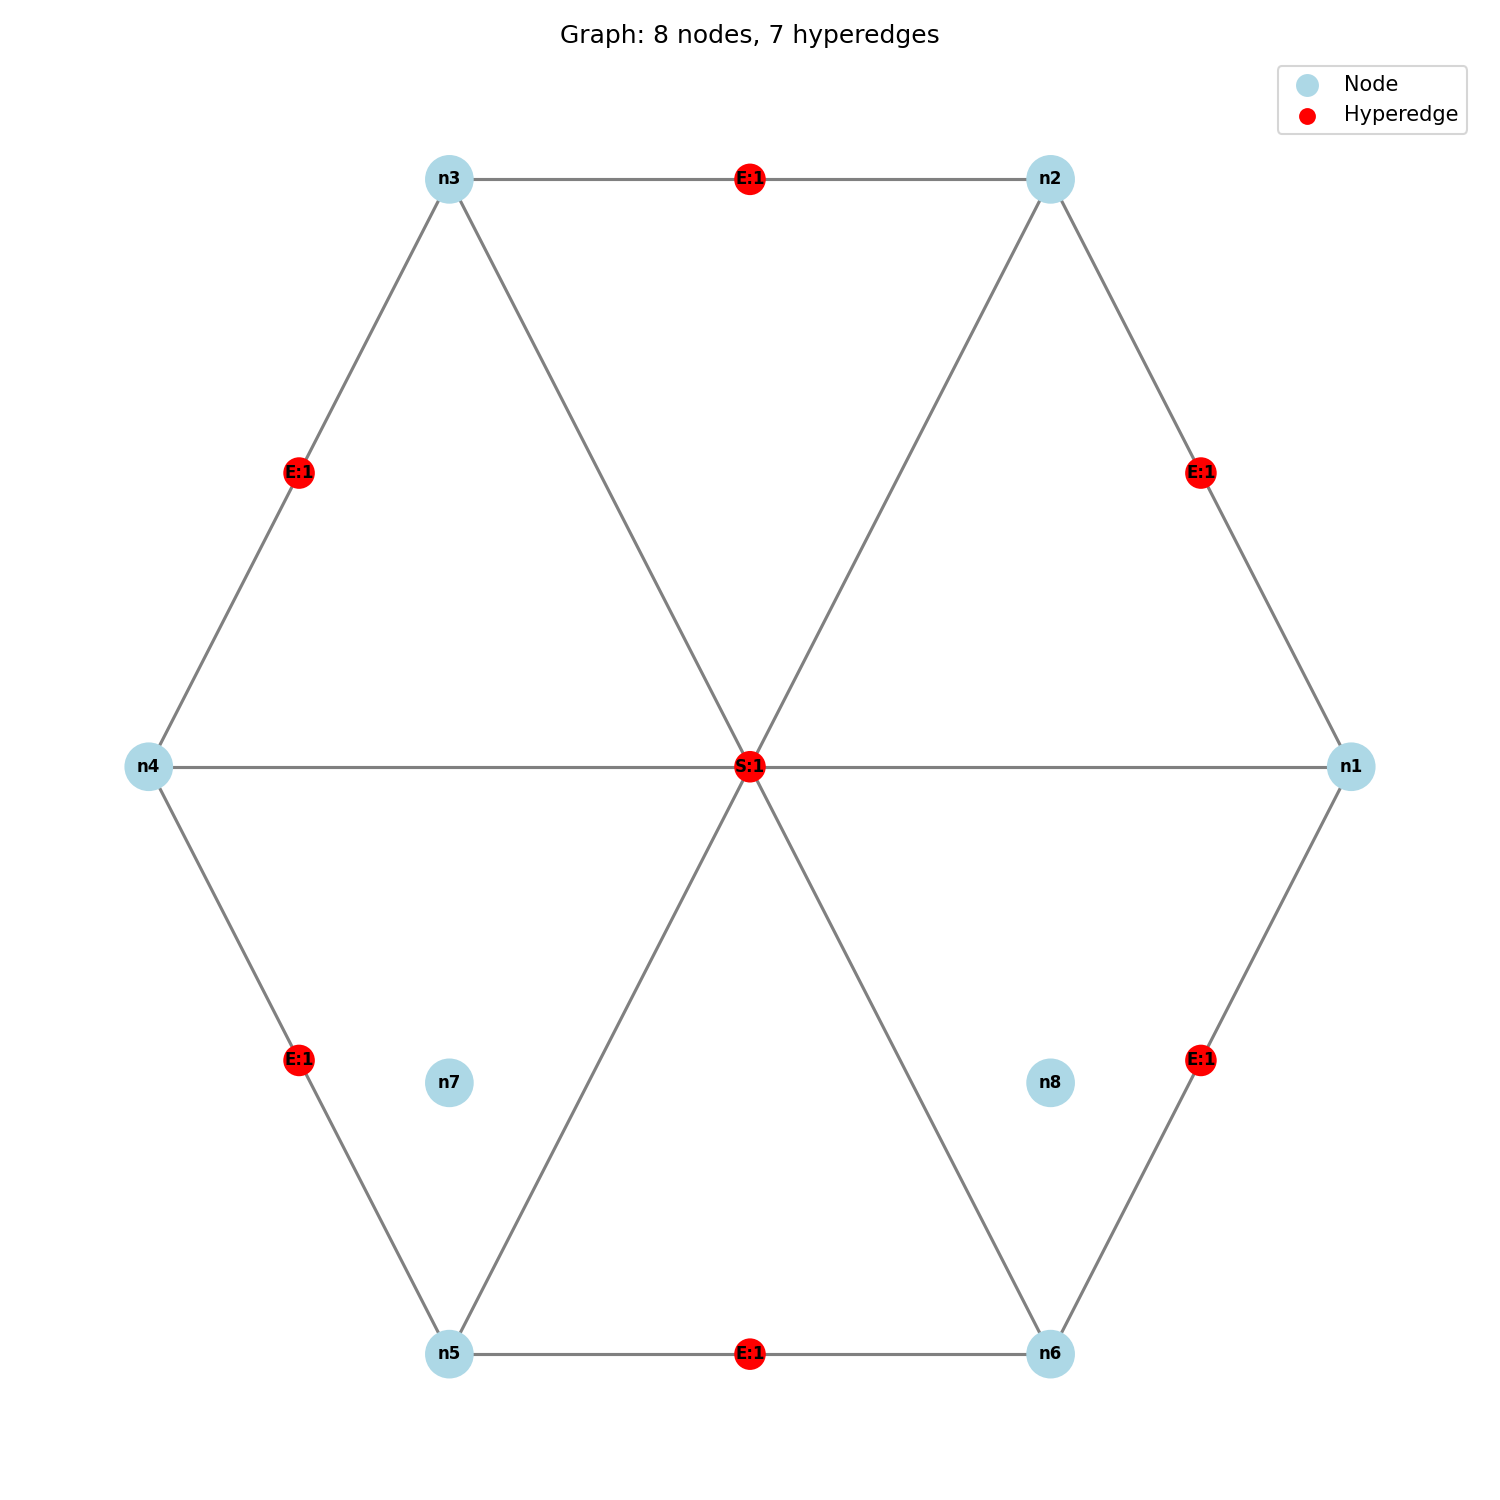
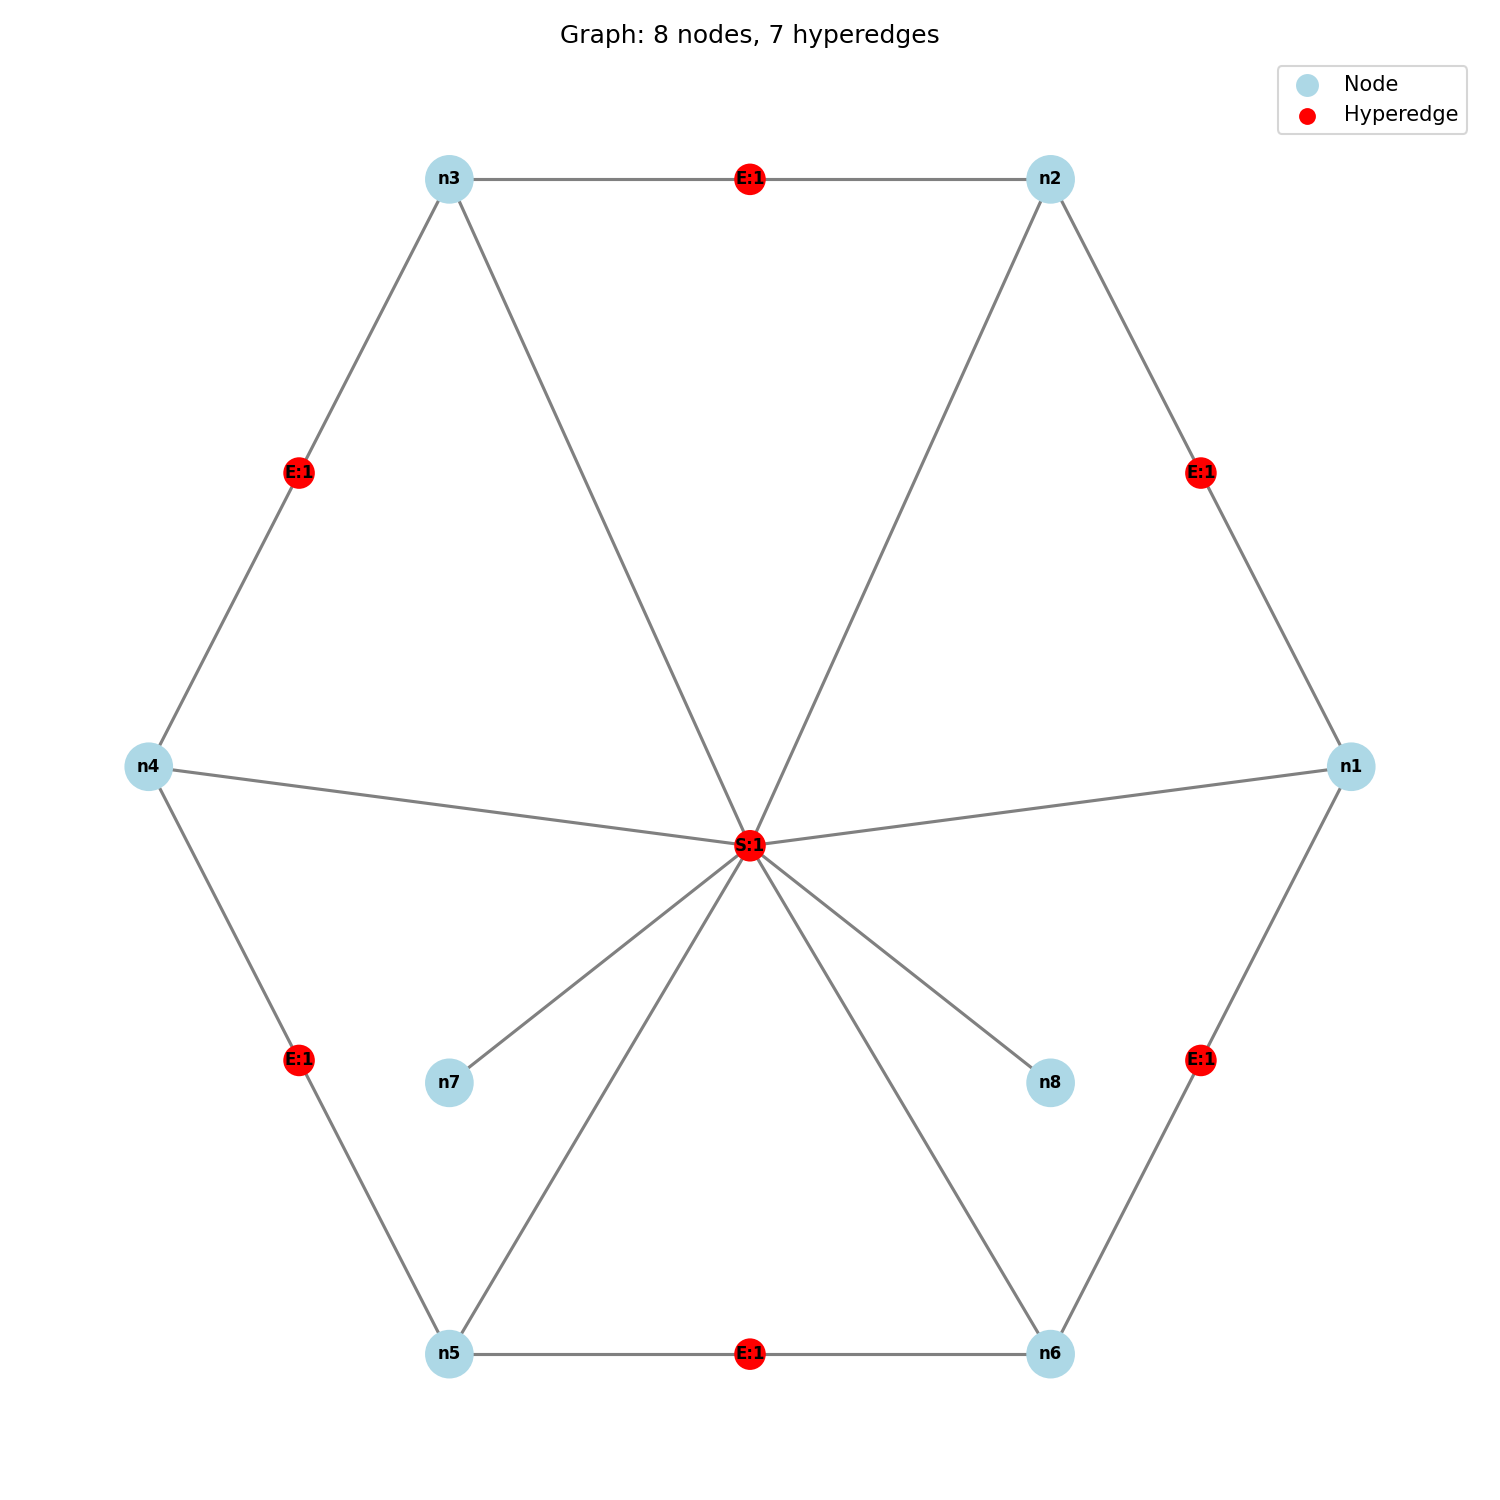
Fix prod10 test6

diff --git a/src/productions/p10.py b/src/productions/p10.py
@@ -55,7 +55,7 @@ class P10(Production):
             if edge.hypertag == "E":
                 g.add_edge(HyperEdge(edge.nodes, "E", r=1), check_nodes=False)
             elif edge.hypertag == "S":
-                g.add_edge(HyperEdge(tuple(nodes), "S", r=edge.r), check_nodes=False)
+                g.add_edge(HyperEdge(edge.nodes, "S", r=edge.r), check_nodes=False)
             else:
                 g.add_edge(edge, check_nodes=False)
 
@@ -67,6 +67,6 @@ class P10(Production):
                 return False
         
         for edge in matched_graph.hyperedges:
-            if edge.hypertag == "E" and edge.r != 1:
-                return True
-        return False
+            if edge.hypertag == "E" and edge.r != 0:
+                return False
+        return True
